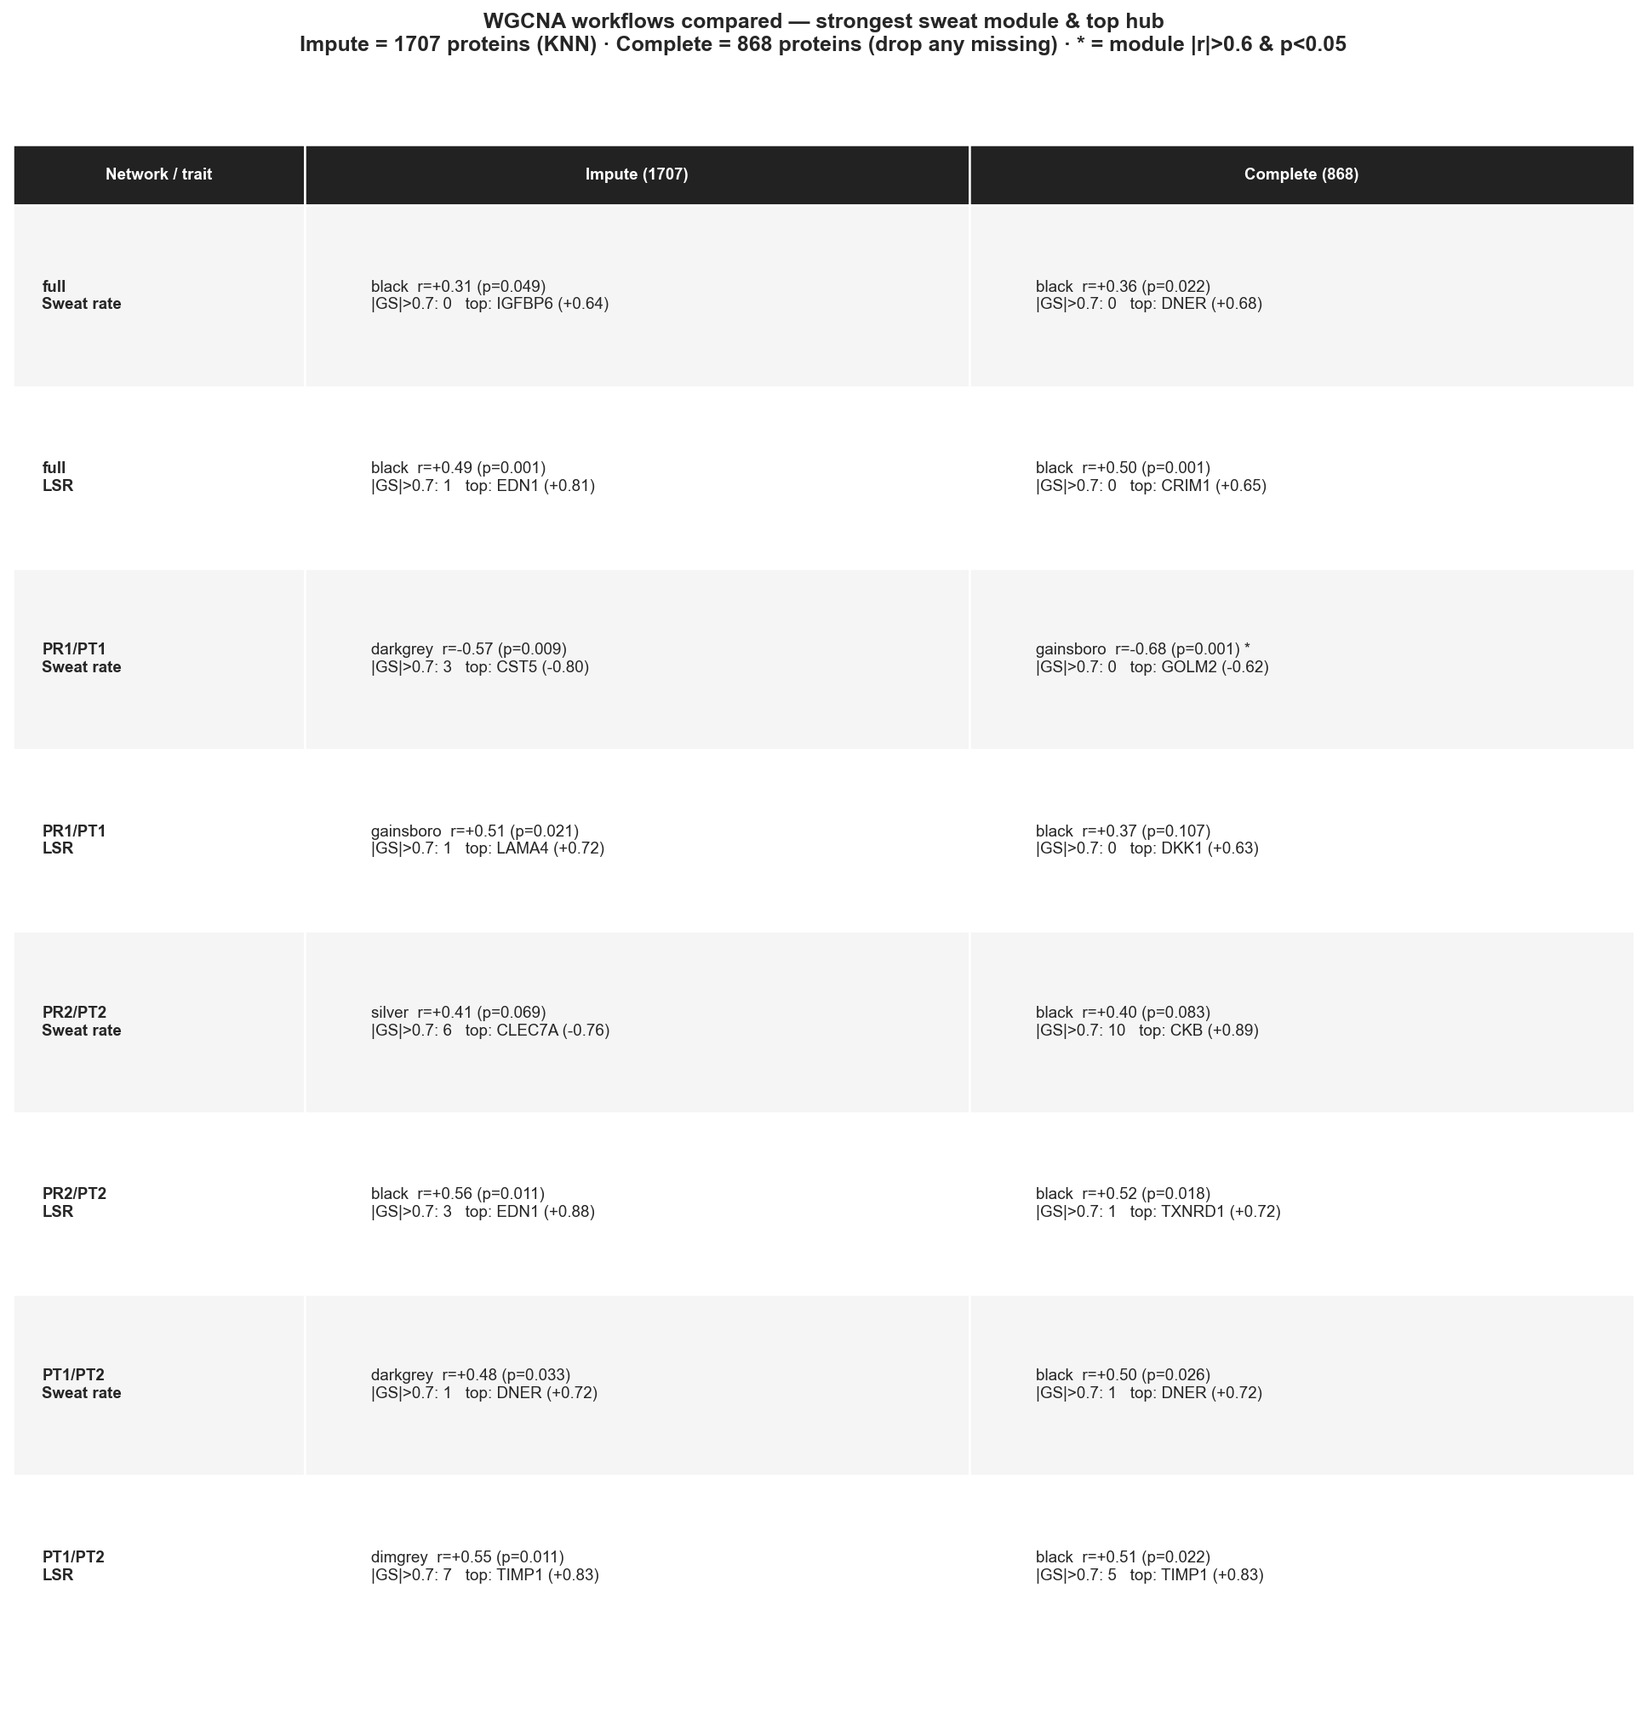
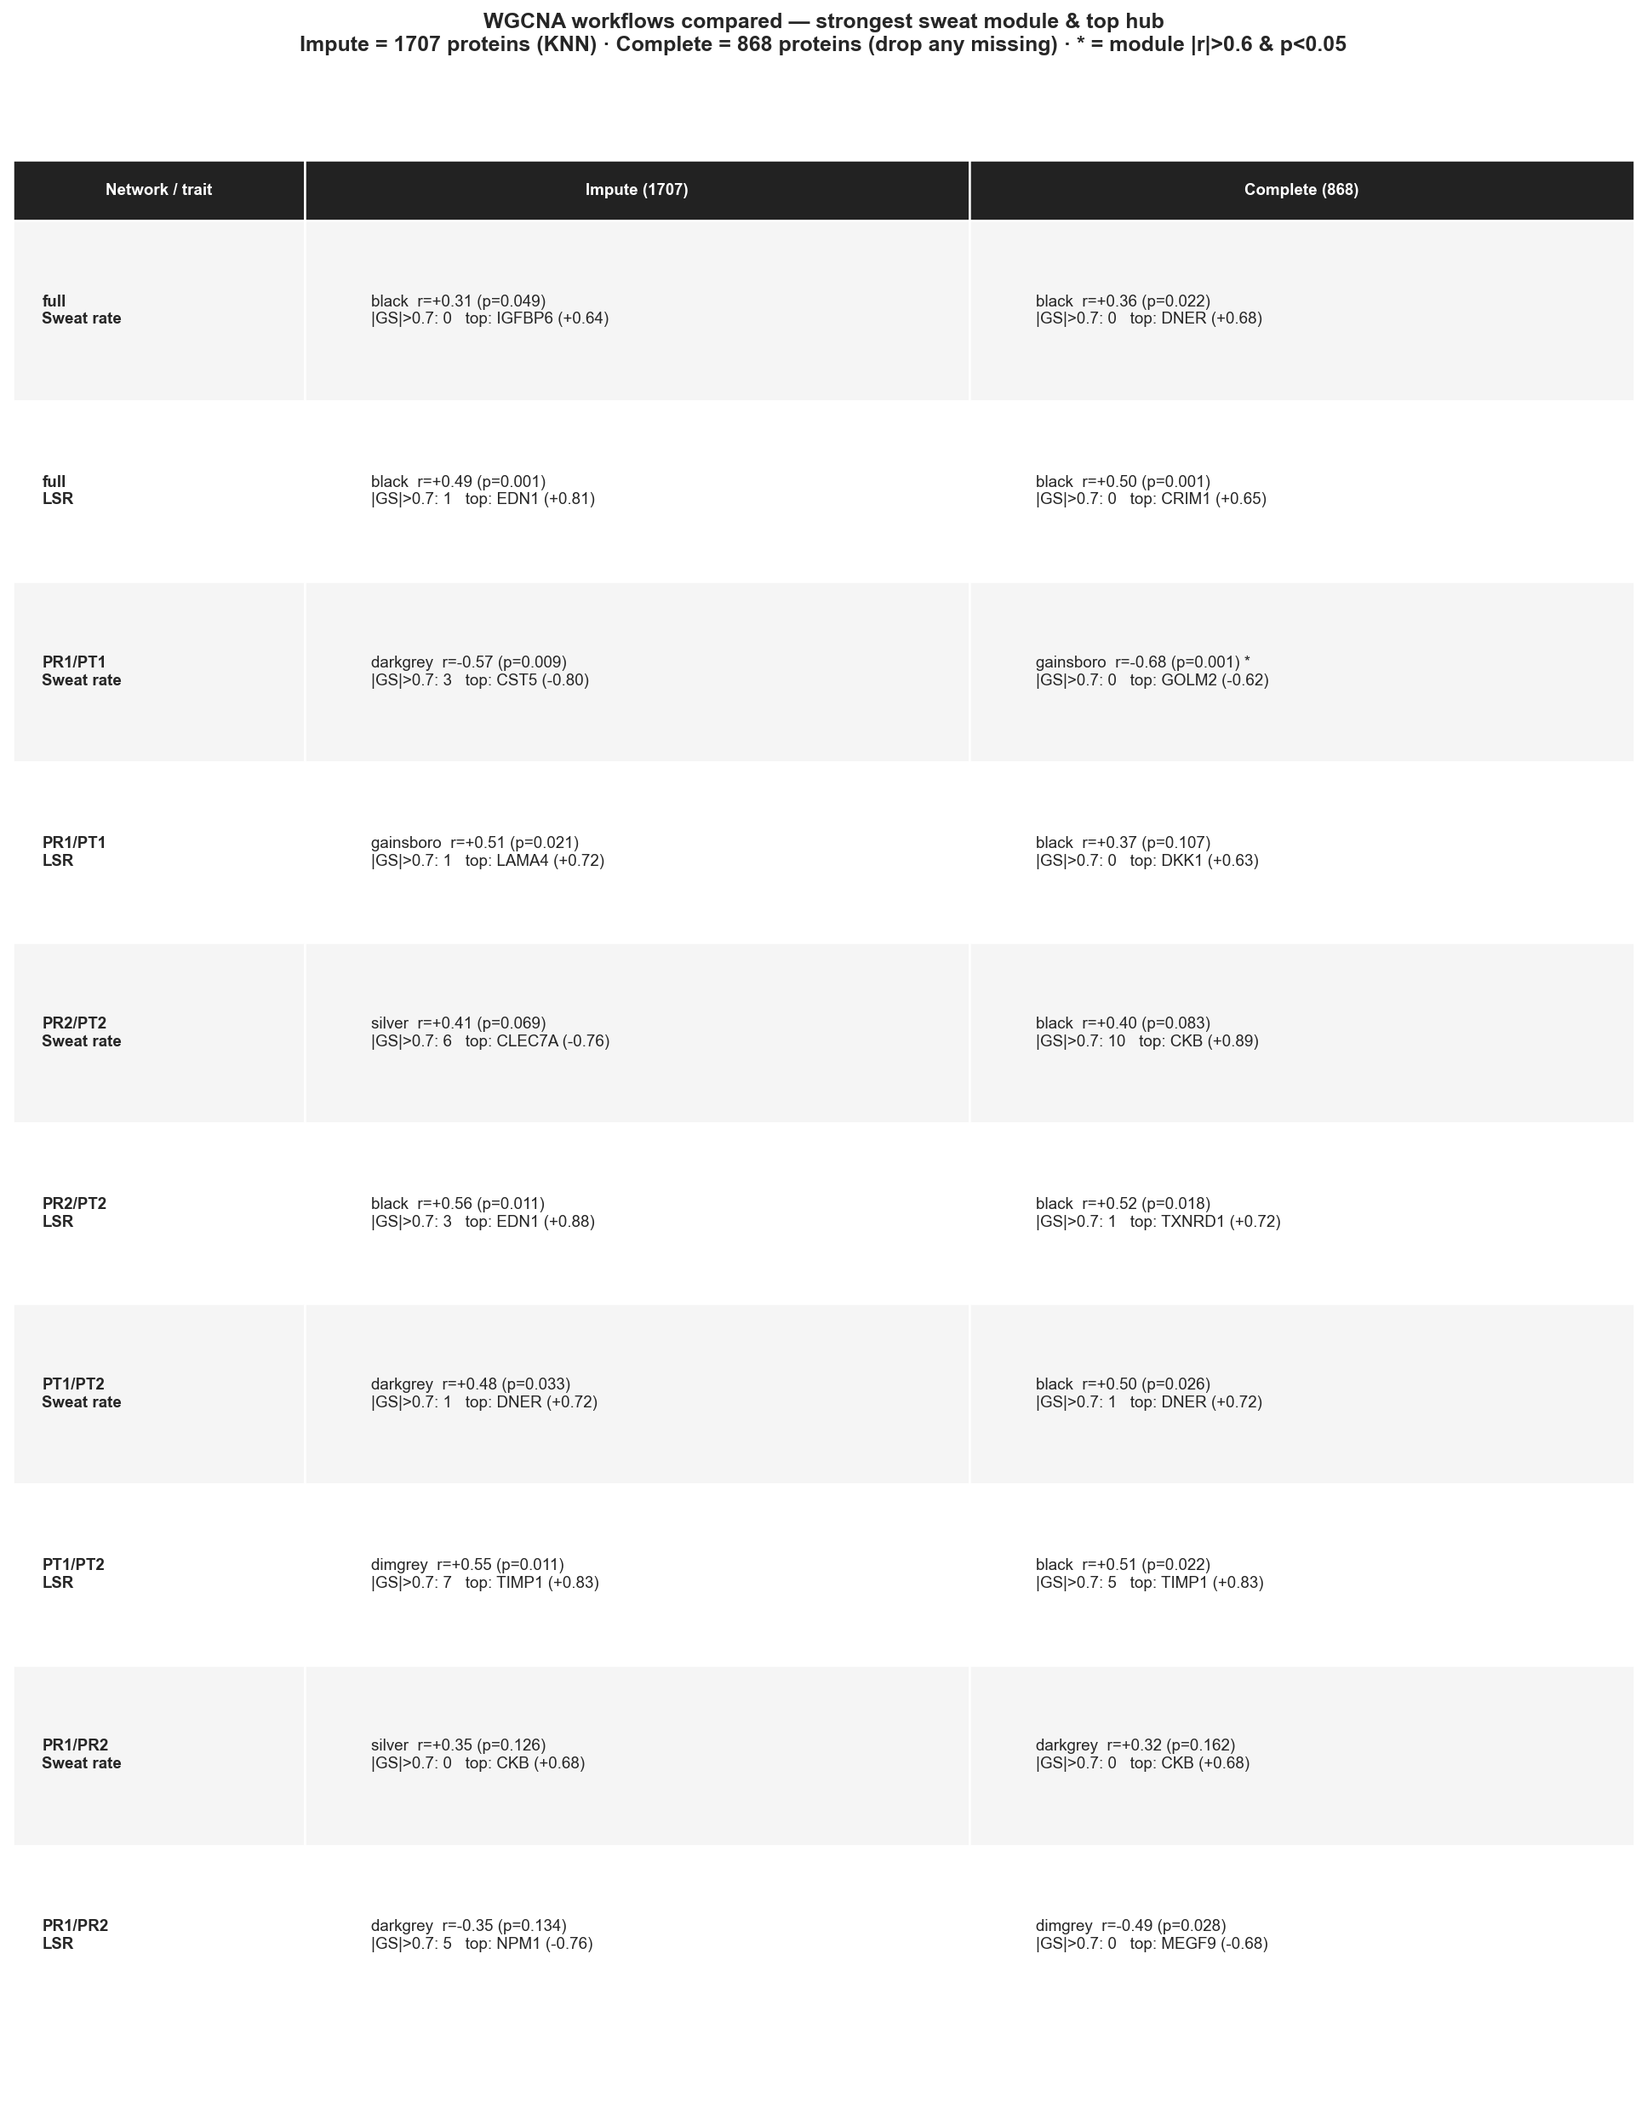
Add WGCNA evaluation scripts and visualizations for imputed and complete-case workflows

diff --git a/src/wgcna/model_development.py b/src/wgcna/model_development.py
@@ -1,0 +1,128 @@
+"""Impute-workflow WGCNA — script version of model_development.ipynb.
+
+Builds the four co-expression networks (full + PR1/PT1 + PR2/PT2 + PT1/PT2),
+runs the sweat-focused module-trait scan, evaluates the sweat modules against
+the three proposal criteria, and SAVES the result figures to
+results/wgcna/impute/ (a script cannot display inline like the notebook).
+
+Run with the Python 3.9 interpreter that has PyWGCNA.
+"""
+
+import sys
+import warnings
+from pathlib import Path
+
+warnings.filterwarnings("ignore")
+import matplotlib
+matplotlib.use("Agg")
+import matplotlib.pyplot as plt
+import numpy as np
+import pandas as pd
+import PyWGCNA
+
+sys.path.insert(0, str(Path(__file__).resolve().parents[1] / "data_pipeline"))
+sys.path.insert(0, str(Path(__file__).resolve().parent))          # wgcna_evaluation
+from read_physiological_data import DATA_DIR, PROJECT_DIR
+from wgcna_evaluation import evaluate, module_trait_table, scale_free_fit
+
+CASE_DIR = DATA_DIR / "wgcna" / "impute"
+RESULTS_DIR = PROJECT_DIR / "results" / "wgcna" / "impute"
+# Sweat-association targets, matched to the trait that actually varies in each
+# process. Heat stress (Normo->Hyper): whole-body sweat rate is a per-session
+# value and is FLAT within the contrast, so LSR (local sweat rate) is used.
+# Heat acclimation (Pre->Post): whole-body sweat rate varies, so it is used.
+SWEAT_TARGETS = [
+    ("PR1/PT1", "LSR (mg/min/cm2)", "Heat stress pre · LSR"),
+    ("PR2/PT2", "LSR (mg/min/cm2)", "Heat stress post · LSR"),
+    ("PT1/PT2", "Sweat rate (L/h)", "Acclimation heat · sweat"),
+    ("PR1/PR2", "Sweat rate (L/h)", "Acclimation rest · sweat"),
+]
+
+
+def build(expr, tr, mask, name):
+    e, t = (expr, tr) if mask is None else (expr.loc[mask], tr.loc[mask])
+    o = PyWGCNA.WGCNA(name=name, species="human", geneExp=e, sampleInfo=t,
+                      TPMcutoff=float("-inf"), RsquaredCut=0.8,
+                      networkType="signed hybrid", TOMType="signed",
+                      minModuleSize=30, save=False)
+    o.runWGCNA()
+    return o
+
+
+def module_trait_heatmap(ax, obj, name):
+    """Modules (rows) x traits (cols) coloured by r; '*' marks BH-FDR < 0.05."""
+    traits = [t for t in obj.datExpr.obs.columns if obj.datExpr.obs[t].nunique() > 1]
+    mods = [m[2:] for m in obj.MEs.columns]
+    R = pd.DataFrame(index=mods, columns=traits, dtype=float)
+    sig = pd.DataFrame("", index=mods, columns=traits)
+    for t in traits:
+        mt = module_trait_table(obj, t)
+        for m in mods:
+            R.loc[m, t] = mt.loc[m, "r"]
+            if mt.loc[m, "FDR"] < 0.05:
+                sig.loc[m, t] = "*"
+    im = ax.imshow(R.values.astype(float), cmap="RdBu_r", vmin=-1, vmax=1, aspect="auto")
+    ax.set_xticks(range(len(traits)))
+    ax.set_xticklabels([t.split(" (")[0] for t in traits], rotation=90, fontsize=6)
+    ax.set_yticks(range(len(mods)))
+    ax.set_yticklabels(mods, fontsize=7)
+    for i in range(len(mods)):
+        for j in range(len(traits)):
+            ax.text(j, i, f"{R.iloc[i, j]:.2f}{sig.iloc[i, j]}",
+                    ha="center", va="center", fontsize=5)
+    ax.set_title(f"{name}  (power {obj.power}, R²={scale_free_fit(obj)[1]:.2f})", fontsize=9)
+    return im
+
+
+def main():
+    RESULTS_DIR.mkdir(parents=True, exist_ok=True)
+    expr = pd.read_csv(CASE_DIR / "wgcna_expression.csv", index_col=0)
+    tr = pd.read_csv(CASE_DIR / "wgcna_traits.csv", index_col=0)
+    common = expr.index.intersection(tr.index)
+    expr, tr = expr.loc[common], tr.loc[common]
+    ex = tr.index.str.split("-").str[-1]
+
+    nets = {
+        "full": build(expr, tr, None, "full"),
+        "PR1/PT1": build(expr, tr, pd.Series(ex.isin(["PR1", "PT1"]), index=tr.index), "PR1_PT1"),
+        "PR2/PT2": build(expr, tr, pd.Series(ex.isin(["PR2", "PT2"]), index=tr.index), "PR2_PT2"),
+        "PT1/PT2": build(expr, tr, pd.Series(ex.isin(["PT1", "PT2"]), index=tr.index), "PT1_PT2"),
+        "PR1/PR2": build(expr, tr, pd.Series(ex.isin(["PR1", "PR2"]), index=tr.index), "PR1_PR2"),
+    }
+    for n, o in nets.items():
+        print(f"{n:8s} power={o.power} R²={scale_free_fit(o)[1]:.3f} "
+              f"modules={o.datExpr.var['moduleColors'].value_counts().to_dict()}")
+
+    # --- Figure 1: module-trait heatmaps (all networks) ---
+    fig, axes = plt.subplots(2, 3, figsize=(21, 11))
+    axflat = axes.ravel()
+    im = None
+    for ax, (n, o) in zip(axflat, nets.items()):
+        im = module_trait_heatmap(ax, o, n)
+    for ax in axflat[len(nets):]:
+        ax.set_visible(False)
+    fig.colorbar(im, ax=axes, shrink=0.5, label="module-trait correlation (r)")
+    fig.suptitle("Module–trait correlations, impute workflow  (* = BH-FDR < 0.05)",
+                 fontsize=13, fontweight="bold")
+    f1 = RESULTS_DIR / "module_trait_heatmaps.png"
+    fig.savefig(f1, bbox_inches="tight", dpi=150)
+    plt.close(fig)
+
+    # --- Figure 2: evaluation (GS vs MM) for the sweat modules ---
+    print("\n=== EVALUATION (three criteria) ===")
+    fig, axes = plt.subplots(1, len(SWEAT_TARGETS), figsize=(5 * len(SWEAT_TARGETS), 4.6))
+    for (net, trait, label), ax in zip(SWEAT_TARGETS, np.atleast_1d(axes)):
+        evaluate(nets[net], trait, name=label, ax=ax)
+    fig.suptitle("Evaluation — Gene Significance vs Module Membership (impute)",
+                 fontsize=13, fontweight="bold", y=1.03)
+    fig.tight_layout()
+    f2 = RESULTS_DIR / "evaluation_sweat.png"
+    fig.savefig(f2, bbox_inches="tight", dpi=150)
+    plt.close(fig)
+
+    print("\nsaved:", f1)
+    print("saved:", f2)
+
+
+if __name__ == "__main__":
+    main()

diff --git a/src/wgcna/wgcna_evaluation.py b/src/wgcna/wgcna_evaluation.py
@@ -1,0 +1,122 @@
+"""WGCNA evaluation following the proposal's three criteria.
+
+  1. Network topology   -- scale-free fit R^2 at the selected soft-power (> 0.8).
+  2. Module-trait        -- Pearson r + p + BH-FDR between module eigengenes
+                            and a trait.
+  3. Biomarker priority  -- correlation of Module Membership (MM = kME) vs Gene
+                            Significance (GS) within a target module
+                            (|r| > 0.6 & p < 0.05); hubs = high |MM| and |GS|.
+
+Operates on an already-fitted PyWGCNA object (does not import PyWGCNA).
+"""
+
+import numpy as np
+import pandas as pd
+import matplotlib.pyplot as plt
+from scipy.stats import pearsonr
+
+
+def _bh(p):
+    """Benjamini-Hochberg FDR-adjusted p-values."""
+    p = np.asarray(p, float)
+    order = np.argsort(p)
+    ranked = p[order] * len(p) / (np.arange(len(p)) + 1)
+    ranked = np.minimum.accumulate(ranked[::-1])[::-1]
+    out = np.empty(len(p))
+    out[order] = np.clip(ranked, 0, 1)
+    return out
+
+
+def _corr(a, b):
+    k = ~(pd.isna(a) | pd.isna(b))
+    return pearsonr(a[k], b[k])
+
+
+def scale_free_fit(obj):
+    """Criterion 1 -> (selected power, scale-free R^2)."""
+    row = obj.sft[obj.sft["Power"] == obj.power]
+    return int(obj.power), float(row["SFT.R.sq"].iloc[0])
+
+
+def module_trait_table(obj, trait):
+    """Criterion 2 -> module eigengene vs trait: r, p, BH-FDR (sorted by |r|)."""
+    ME = obj.MEs
+    y = obj.datExpr.obs.loc[ME.index, trait].astype(float).values
+    df = pd.DataFrame({m[2:]: _corr(ME[m].values, y) for m in ME.columns},
+                      index=["r", "p"]).T
+    df["FDR"] = _bh(df["p"].values)
+    return df.sort_values("r", key=abs, ascending=False)
+
+
+def module_membership(obj, module):
+    """MM / kME: correlation of each module protein with the module eigengene."""
+    X = obj.datExpr.to_df()
+    me = obj.MEs["ME" + module].values
+    genes = obj.datExpr.var.index[obj.datExpr.var["moduleColors"] == module]
+    return pd.Series({g: _corr(X[g].values, me)[0] for g in genes})
+
+
+def gene_significance(obj, trait, genes):
+    """GS: correlation of each protein with the trait."""
+    X = obj.datExpr.to_df()
+    y = obj.datExpr.obs.loc[X.index, trait].astype(float).values
+    return pd.Series({g: _corr(X[g].values, y)[0] for g in genes})
+
+
+def evaluate(obj, trait, module=None, name=None, ax=None,
+             r2_cut=0.8, mt_cut=0.5, mmgs_cut=0.6, mm_hub=0.8, gs_hub=0.7):
+    """Evaluate one target module against all three criteria + GS-vs-MM scatter.
+
+    module=None auto-selects the strongest module-trait module (robust across
+    networks whose module colours differ). Returns a summary dict; the returned
+    'hubs' are proteins with |MM| > mm_hub and |GS| > gs_hub (high MM AND GS).
+    """
+    power, r2 = scale_free_fit(obj)
+    mt = module_trait_table(obj, trait)
+    if module is None:
+        module = mt.index[0]
+    r, p, fdr = mt.loc[module, ["r", "p", "FDR"]]
+
+    MM = module_membership(obj, module)
+    GS = gene_significance(obj, trait, MM.index)
+    mmgs_r, mmgs_p = pearsonr(MM.values, GS.values)
+
+    hubs = pd.DataFrame({"MM": MM, "GS": GS})
+    hubs = (hubs[(hubs.MM.abs() > mm_hub) & (hubs.GS.abs() > gs_hub)]
+            .assign(score=lambda d: d.MM.abs() * d.GS.abs())
+            .sort_values("score", ascending=False))
+
+    tag = name or f"{module} / {trait.split(' (')[0]}"
+    ok = lambda b: "PASS" if b else "----"
+    print(f"=== {tag}  (module '{module}') ===")
+    print(f"  [1] topology    : power={power}, R^2={r2:.3f}   "
+          f"{ok(r2 > r2_cut)} (>{r2_cut})")
+    print(f"  [2] module-trait: r={r:+.3f}, p={p:.3g}, FDR={fdr:.3g}   "
+          f"{ok(abs(r) > mt_cut and fdr < 0.05)} (|r|>{mt_cut} & FDR<0.05)")
+    print(f"  [3] MM vs GS    : r={mmgs_r:+.3f}, p={mmgs_p:.2g}   "
+          f"{ok(abs(mmgs_r) > mmgs_cut and mmgs_p < 0.05)} (|r|>{mmgs_cut} & p<0.05)")
+    print(f"      hubs (|MM|>{mm_hub} & |GS|>{gs_hub}): {list(hubs.index) or 'none'}")
+
+    if ax is None:
+        _, ax = plt.subplots(figsize=(5, 4.5))
+    ax.scatter(MM.values, GS.values, s=14, color="#BBBBBB", alpha=0.6, linewidth=0)
+    if len(hubs):
+        ax.scatter(hubs.MM, hubs.GS, s=42, color="#D55E00",
+                   edgecolor="white", linewidth=0.5, zorder=3)
+        for g, row in hubs.head(8).iterrows():
+            ax.annotate(g, (row.MM, row.GS), fontsize=7,
+                        xytext=(3, 3), textcoords="offset points")
+    for x in (mm_hub, -mm_hub):
+        ax.axvline(x, color="#CC3311", ls="--", lw=0.8)
+    for y in (gs_hub, -gs_hub):
+        ax.axhline(y, color="#CC3311", ls="--", lw=0.8)
+    ax.set_xlabel("Module Membership (kME)")
+    ax.set_ylabel(f"Gene Significance ({trait.split(' (')[0]})")
+    ax.set_title(f"{tag}\nMM-GS r={mmgs_r:+.2f} | module r={r:+.2f} (FDR={fdr:.3f})",
+                 fontsize=9)
+    for s in ("top", "right"):
+        ax.spines[s].set_visible(False)
+
+    return dict(module=module, power=power, r2=r2, mt_r=float(r), mt_p=float(p),
+                mt_fdr=float(fdr), mmgs_r=mmgs_r, mmgs_p=mmgs_p,
+                hubs=list(hubs.index))

diff --git a/src/wgcna/model_development_complete.py b/src/wgcna/model_development_complete.py
@@ -1,0 +1,84 @@
+"""Complete-case WGCNA — script version of model_development_complete.ipynb.
+
+Mirrors model_development.py but on the 868-protein complete-case set (proteins
+with any missing value dropped, no imputation); saves the result figures to
+results/wgcna/complete/. Reuses build() and module_trait_heatmap() from
+model_development.py so the two scripts stay in sync.
+
+Run with the Python 3.9 interpreter that has PyWGCNA.
+"""
+
+import sys
+import warnings
+from pathlib import Path
+
+warnings.filterwarnings("ignore")
+import matplotlib
+matplotlib.use("Agg")
+import matplotlib.pyplot as plt
+import numpy as np
+import pandas as pd
+
+sys.path.insert(0, str(Path(__file__).resolve().parents[1] / "data_pipeline"))
+sys.path.insert(0, str(Path(__file__).resolve().parent))
+from read_physiological_data import DATA_DIR, PROJECT_DIR
+from wgcna_evaluation import evaluate, scale_free_fit
+import model_development as md          # reuse build() + module_trait_heatmap()
+
+CASE_DIR = DATA_DIR / "wgcna" / "complete"
+RESULTS_DIR = PROJECT_DIR / "results" / "wgcna" / "complete"
+SWEAT_TARGETS = md.SWEAT_TARGETS
+
+
+def main():
+    RESULTS_DIR.mkdir(parents=True, exist_ok=True)
+    expr = pd.read_csv(CASE_DIR / "wgcna_expression.csv", index_col=0)
+    tr = pd.read_csv(CASE_DIR / "wgcna_traits.csv", index_col=0)
+    common = expr.index.intersection(tr.index)
+    expr, tr = expr.loc[common], tr.loc[common]
+    ex = tr.index.str.split("-").str[-1]
+
+    nets = {
+        "full": md.build(expr, tr, None, "full"),
+        "PR1/PT1": md.build(expr, tr, pd.Series(ex.isin(["PR1", "PT1"]), index=tr.index), "PR1_PT1"),
+        "PR2/PT2": md.build(expr, tr, pd.Series(ex.isin(["PR2", "PT2"]), index=tr.index), "PR2_PT2"),
+        "PT1/PT2": md.build(expr, tr, pd.Series(ex.isin(["PT1", "PT2"]), index=tr.index), "PT1_PT2"),
+        "PR1/PR2": md.build(expr, tr, pd.Series(ex.isin(["PR1", "PR2"]), index=tr.index), "PR1_PR2"),
+    }
+    for n, o in nets.items():
+        print(f"{n:8s} power={o.power} R²={scale_free_fit(o)[1]:.3f} "
+              f"modules={o.datExpr.var['moduleColors'].value_counts().to_dict()}")
+
+    # --- Figure 1: module-trait heatmaps ---
+    fig, axes = plt.subplots(2, 3, figsize=(21, 11))
+    axflat = axes.ravel()
+    im = None
+    for ax, (n, o) in zip(axflat, nets.items()):
+        im = md.module_trait_heatmap(ax, o, n)
+    for ax in axflat[len(nets):]:
+        ax.set_visible(False)
+    fig.colorbar(im, ax=axes, shrink=0.5, label="module-trait correlation (r)")
+    fig.suptitle("Module–trait correlations, complete-case workflow  (* = BH-FDR < 0.05)",
+                 fontsize=13, fontweight="bold")
+    f1 = RESULTS_DIR / "module_trait_heatmaps.png"
+    fig.savefig(f1, bbox_inches="tight", dpi=150)
+    plt.close(fig)
+
+    # --- Figure 2: evaluation (GS vs MM) ---
+    print("\n=== EVALUATION (three criteria) ===")
+    fig, axes = plt.subplots(1, len(SWEAT_TARGETS), figsize=(5 * len(SWEAT_TARGETS), 4.6))
+    for (net, trait, label), ax in zip(SWEAT_TARGETS, np.atleast_1d(axes)):
+        evaluate(nets[net], trait, name=label, ax=ax)
+    fig.suptitle("Evaluation — Gene Significance vs Module Membership (complete case)",
+                 fontsize=13, fontweight="bold", y=1.03)
+    fig.tight_layout()
+    f2 = RESULTS_DIR / "evaluation_sweat.png"
+    fig.savefig(f2, bbox_inches="tight", dpi=150)
+    plt.close(fig)
+
+    print("\nsaved:", f1)
+    print("saved:", f2)
+
+
+if __name__ == "__main__":
+    main()

diff --git a/src/wgcna/compare_wgcna.py b/src/wgcna/compare_wgcna.py
@@ -81,7 +81,8 @@ def main():
         nets = {'full': None,
                 'PR1/PT1': pd.Series(ex.isin(['PR1', 'PT1']), index=tr.index),
                 'PR2/PT2': pd.Series(ex.isin(['PR2', 'PT2']), index=tr.index),
-                'PT1/PT2': pd.Series(ex.isin(['PT1', 'PT2']), index=tr.index)}
+                'PT1/PT2': pd.Series(ex.isin(['PT1', 'PT2']), index=tr.index),
+                'PR1/PR2': pd.Series(ex.isin(['PR1', 'PR2']), index=tr.index)}
         for net, mask in nets.items():
             o = fit(expr, tr, mask)
             nmod = o.MEs.shape[1]
@@ -96,7 +97,8 @@ def main():
 
 def _plot(df):
     cases = list(CASES.keys())
-    keys = [(net, tr) for net in ['full', 'PR1/PT1', 'PR2/PT2', 'PT1/PT2'] for tr in SWEAT]
+    keys = [(net, tr) for net in ['full', 'PR1/PT1', 'PR2/PT2', 'PT1/PT2', 'PR1/PR2']
+            for tr in SWEAT]
 
     def fmt(row):
         star = " *" if abs(row['r']) > 0.6 and row['p'] < 0.05 else ""
